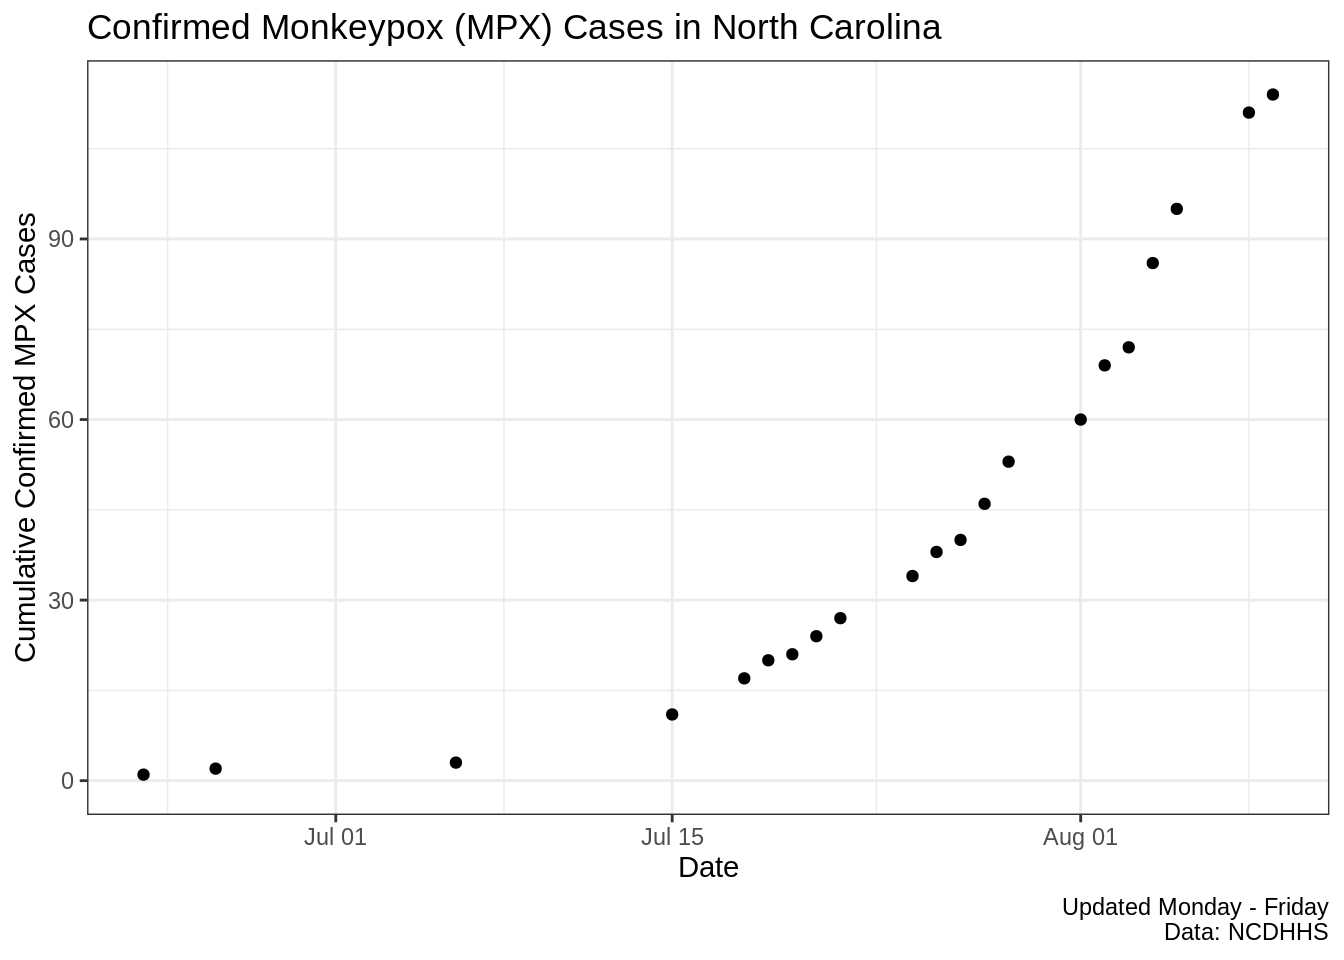
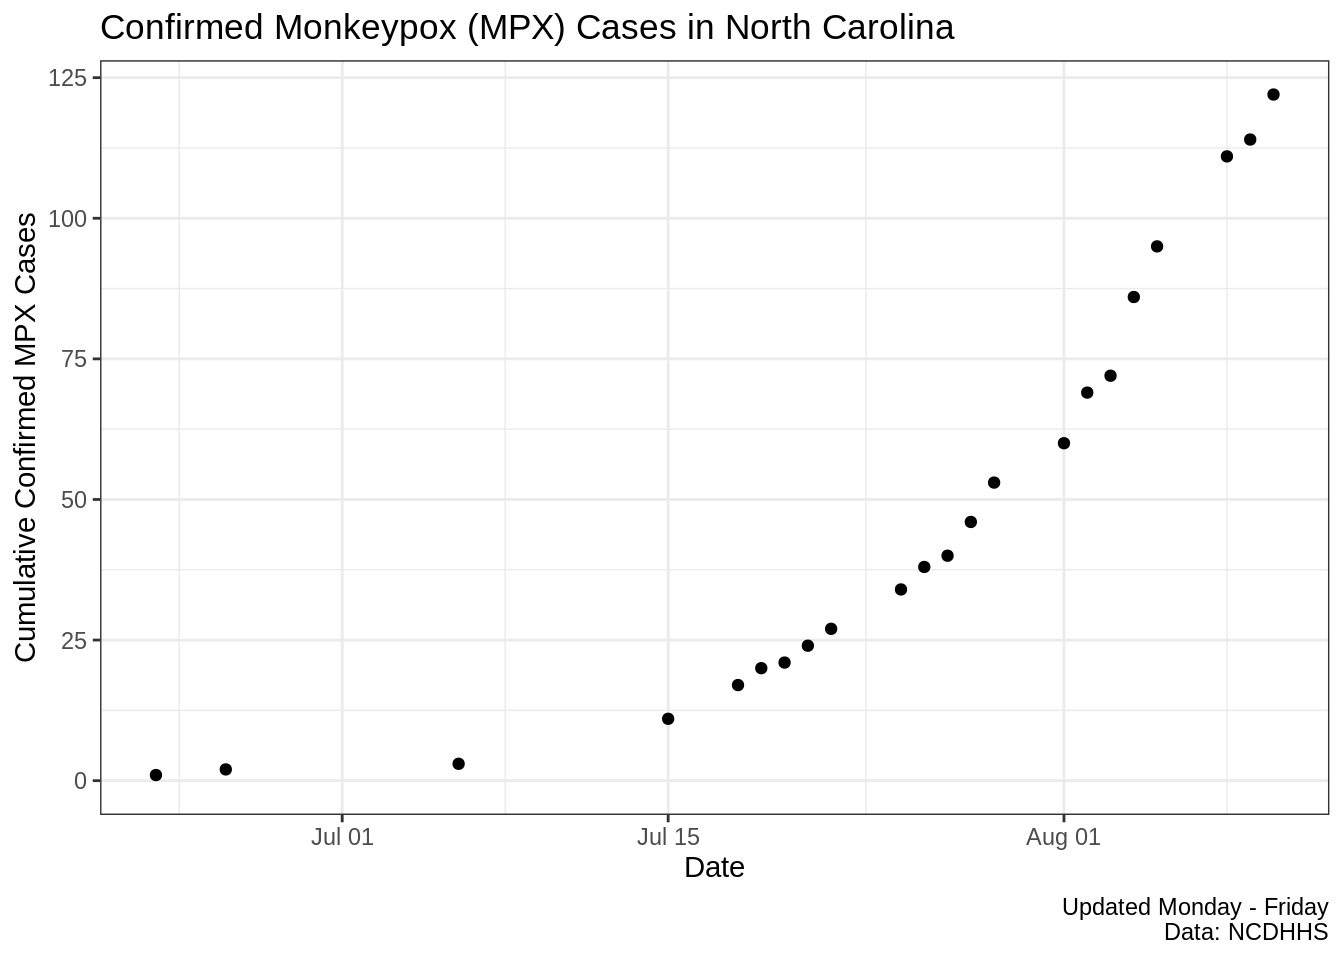
Update the latest data

diff --git a/docs/index.html b/docs/index.html
@@ -129,7 +129,7 @@ ul.task-list{list-style: none;}
 <div class="cell">
 
 </div>
-<p>These data are current as of 09 August, 2022. Current case incidence suggests a doubling time of 7.7 (95% CI, 7.3-8.2) days.</p>
+<p>These data are current as of 10 August, 2022. Current case incidence suggests a doubling time of 7.9 (95% CI, 7.5-8.4) days.</p>
 <div class="cell">
 <div class="cell-output-display">
 <p><img src="index_files/figure-html/unnamed-chunk-2-1.png" class="img-fluid" width="672"></p>
